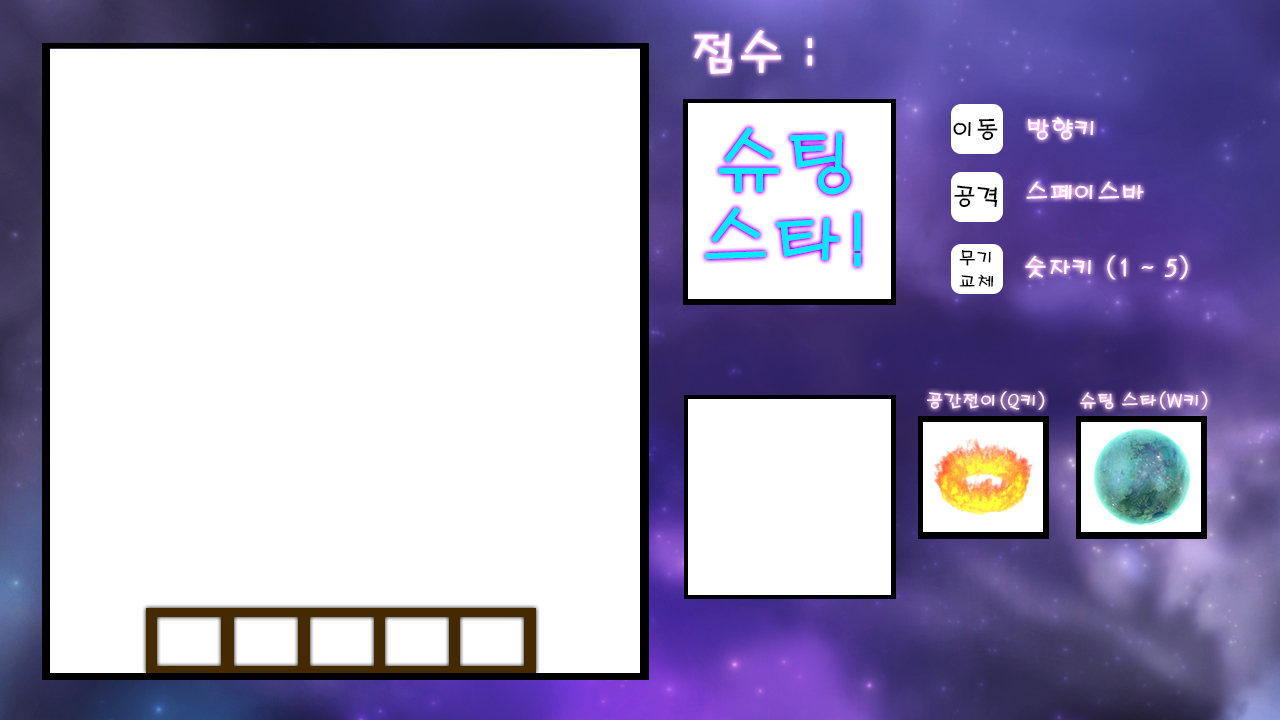
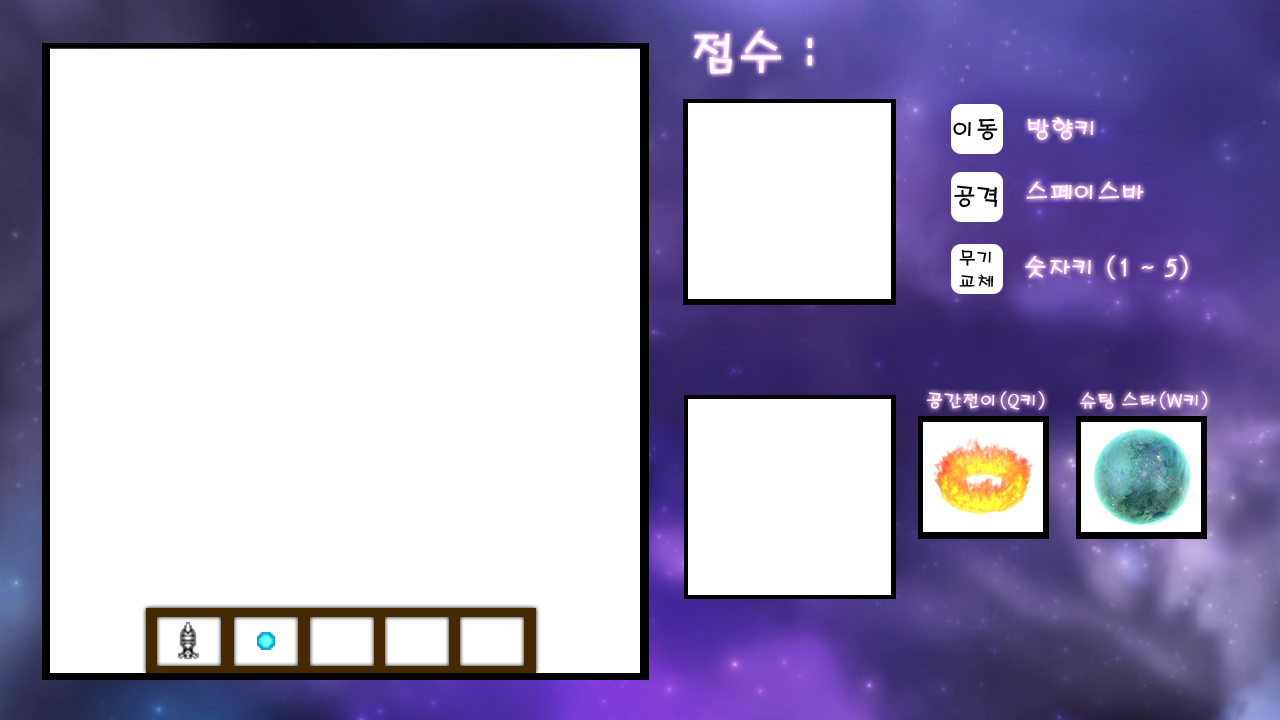
Add : UI 세분화, 카메라 스크롤

diff --git a/cStageOne.cpp b/cStageOne.cpp
@@ -16,6 +16,8 @@ void cStageOne::Init()
 {
 	SOUND->Play("StageBGM", true);
 	OBJFIND(PLAYER)->SetActive(true);
+
+	CAMERA->m_pos = VEC2(OBJFIND(PLAYER)->GetPos().x + 300, OBJFIND(PLAYER)->GetPos().y);
 }
 
 void cStageOne::Update()
@@ -30,7 +32,6 @@ void cStageOne::Update()
 void cStageOne::Render()
 {
 	m_map->Render();
-	IMAGE->Render(OBJFIND(PLAYER)->GetImg(), VEC2(0, 0), VEC2(1, 1), 0.f, true);
 }
 
 void cStageOne::Release()
@@ -55,22 +56,11 @@ void cStageOne::Pause()
 
 void cStageOne::CameraMove()
 {
-	//CAMERA->m_pos = VEC2(WINSIZEX / 2, WINSIZEY / 2);
+	Lerp<VEC2>(CAMERA->m_pos, CAMERA->m_pos, VEC2(OBJFIND(PLAYER)->GetPos().x + 300, OBJFIND(PLAYER)->GetPos().y), 0.05);
 
-	IMAGE->FindTexture("StageOneBG")->m_info.Width / 2;
-	CAMERA->m_pos.x;
+	if (CAMERA->m_pos.x < 590) CAMERA->m_pos.x = 590;
+	else if (CAMERA->m_pos.x > 3840) CAMERA->m_pos.x = 3840;
 
-
-	if ((-(IMAGE->FindTexture("StageOneBG")->m_info.Width) / 2) - (WINSIZEX / 2) < OBJFIND(PLAYER)->GetPos().x ||
-		((IMAGE->FindTexture("StageOneBG")->m_info.Width) / 2) + (WINSIZEX / 2) > OBJFIND(PLAYER)->GetPos().x ||
-		(-(IMAGE->FindTexture("StageOneBG")->m_info.Height) / 2) - (WINSIZEY / 2) < OBJFIND(PLAYER)->GetPos().y ||
-		((IMAGE->FindTexture("StageOneBG")->m_info.Height) / 2) + (WINSIZEY / 2) > OBJFIND(PLAYER)->GetPos().y)
-		{
-		Lerp<VEC2>(CAMERA->m_pos, CAMERA->m_pos, VEC2(OBJFIND(PLAYER)->GetPos().x + 350, OBJFIND(PLAYER)->GetPos().y), 0.05);
-		}
-	//CAMERA->m_pos.x = GAMESIZEX / 2;
-
-	//if (OBJFIND(PLAYER)->GetPos().x < WINSIZEX / 2) {
-		//CAMERA->m_pos.x = WINSIZEX / 2;
-	//}
+	if (CAMERA->m_pos.y < 310) CAMERA->m_pos.y = 310;
+	else if (CAMERA->m_pos.y > 1845) CAMERA->m_pos.y = 1845;
 }

diff --git a/cIngameUI.cpp b/cIngameUI.cpp
@@ -1,0 +1,39 @@
+#include "DXUT.h"
+#include "cPlayer.h"
+#include "cImage.h"
+#include "cIngameUI.h"
+
+cIngameUI::cIngameUI()
+{
+	m_bg = new cImage;
+	m_nowWeapon = new cImage;
+	m_gameName = new cImage;
+}
+
+cIngameUI::~cIngameUI()
+{
+	SAFE_DELETE(m_bg);
+	SAFE_DELETE(m_nowWeapon);
+	SAFE_DELETE(m_gameName);
+}
+
+void cIngameUI::Init()
+{
+	m_bg->m_text = IMAGE->FindTexture("IngameBGUI");
+	m_nowWeapon->m_text = IMAGE->FindTexture("IngameWeaponUI");
+	m_gameName->m_text = IMAGE->FindTexture("IngameStarUI");
+}
+
+void cIngameUI::Render()
+{
+	IMAGE->Render(m_bg->m_text, VEC2(0, 0));
+
+	int weapon = ((cPlayer*)OBJFIND(PLAYER))->m_nowWeapon;
+	IMAGE->Render(m_nowWeapon->m_text, VEC2(190 + 76 * weapon, 642), VEC2(1, 1), 0.f, true);
+
+	IMAGE->Render(m_gameName->m_text, VEC2(790, 200), VEC2(1, 1), 0.f, true);
+}
+
+void cIngameUI::Release()
+{
+}

diff --git a/cPlayer.h b/cPlayer.h
@@ -14,13 +14,11 @@ private:
 	vector<cMotionInfo*> m_motionInfo;
 	cTimer* m_fire;
 	cTimer* m_motion;
-	cTimer* m_boost;
 	FLOAT m_originSpd;
 	FLOAT m_moveSpd;
 	bool m_canFire = false;
-	bool m_isBoost = false;
 public:
-	bool m_isWayTan = true;
+	int m_nowWeapon = 0;
 public:
 	cPlayer();
 	virtual ~cPlayer();
@@ -30,6 +28,8 @@ public:
 
 	void Init();
 	void Release();
+
+	void ChangeWeapon();
 
 	void Move();
 	void Fire();

diff --git a/cScroolMap.cpp b/cScroolMap.cpp
@@ -26,12 +26,13 @@ void cScroolMap::Init()
 
 void cScroolMap::Update()
 {
+	pos1.y += m_downSpd * D_TIME;
+	pos2.y += m_downSpd * D_TIME;
+
 	if (pos2.y >= (FLOAT)m_img2->m_text->m_info.Height) {
 		pos1 = VEC2(0, -(FLOAT)m_img2->m_text->m_info.Height);
 		pos2 = VEC2(0, 0);
 	}
-	//pos1.y += m_downSpd * D_TIME;
-	pos2.y += m_downSpd * D_TIME;
 }
 
 void cScroolMap::Render()

diff --git a/cIngameUI.h b/cIngameUI.h
@@ -1,0 +1,19 @@
+#pragma once
+#include "cUI.h"
+
+class cImage;
+class cIngameUI : public cUI
+{
+private:
+	cImage* m_bg;
+	cImage* m_nowWeapon;
+	cImage* m_gameName;
+public:
+	cIngameUI();
+	virtual ~cIngameUI();
+	
+	virtual void Init() override;
+	virtual void Render() override;
+	virtual void Release() override;
+};
+

diff --git a/cUI.h b/cUI.h
@@ -1,12 +1,13 @@
 #pragma once
-class cScene abstract
+class cUI abstract
 {
 public:
-	cScene() {}
-	virtual ~cScene() {};
+	cUI() {}
+	virtual ~cUI() {}
 
 	virtual void Init() PURE;
 	virtual void Release() PURE;
-	virtual void Update() PURE;
+
 	virtual void Render() PURE;
 };
+

diff --git a/cLoadScene.cpp b/cLoadScene.cpp
@@ -60,6 +60,8 @@ void cLoadScene::Init()
 
 	//UI
 	Load("IngameBGUI", "resources/image/ui/ingame/bg.png");
+	Load("IngameWeaponUI", "resources/image/ui/ingame/nowweapon.png");
+	Load("IngameStarUI", "resources/image/ui/ingame/star.png");
 }
 
 void cLoadScene::Update()

diff --git a/cUIManager.h b/cUIManager.h
@@ -1,10 +1,11 @@
 #pragma once
 #include "cSingleton.hpp"
 
+class cUI;
 class cUIManager : public cSingleton<cUIManager>
 {
 private:
-	cImage* m_ingameBG;
+	map<string, cUI*> m_UIs;
 public:
 	cUIManager();
 	virtual ~cUIManager();
